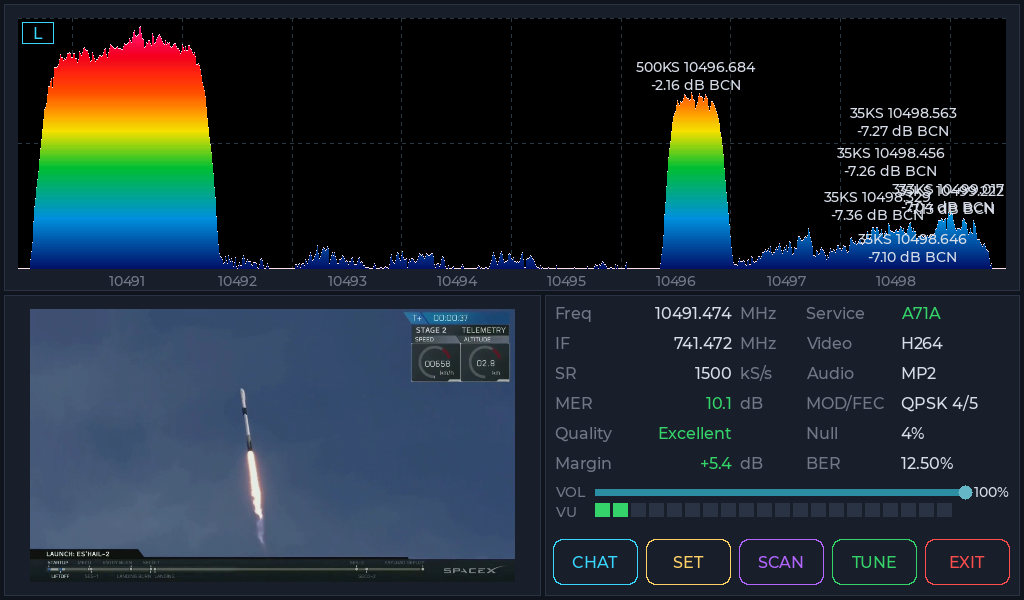
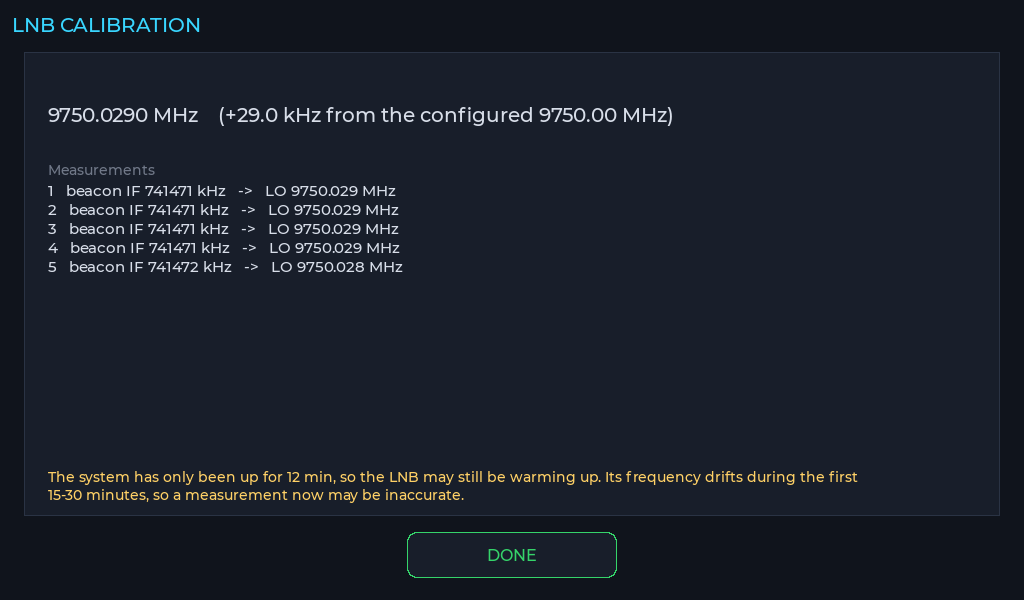
Fix duplicated word in a comment

diff --git a/qo100_sdl/src/main.cpp b/qo100_sdl/src/main.cpp
@@ -4339,7 +4339,7 @@ int main(int argc, char ** argv)
      *  - remote BATC spectrum: its frequency axis is true RF, so the LNB's
      *    real (calibrated) LO is the right one - if a calibration exists;
      *  - local RTL-SDR spectrum: that display is built around the NOMINAL
-     *    nominal LO, so the LNB error cancels between display and tuner
+     *    LO, so the LNB error cancels between display and tuner
      *    and the nominal LO is still the consistent choice. It keeps that
      *    until the RTL correction is calibrated as well (a later step);
      *    using the calibrated LO there now would make every tap ~30 kHz off.
